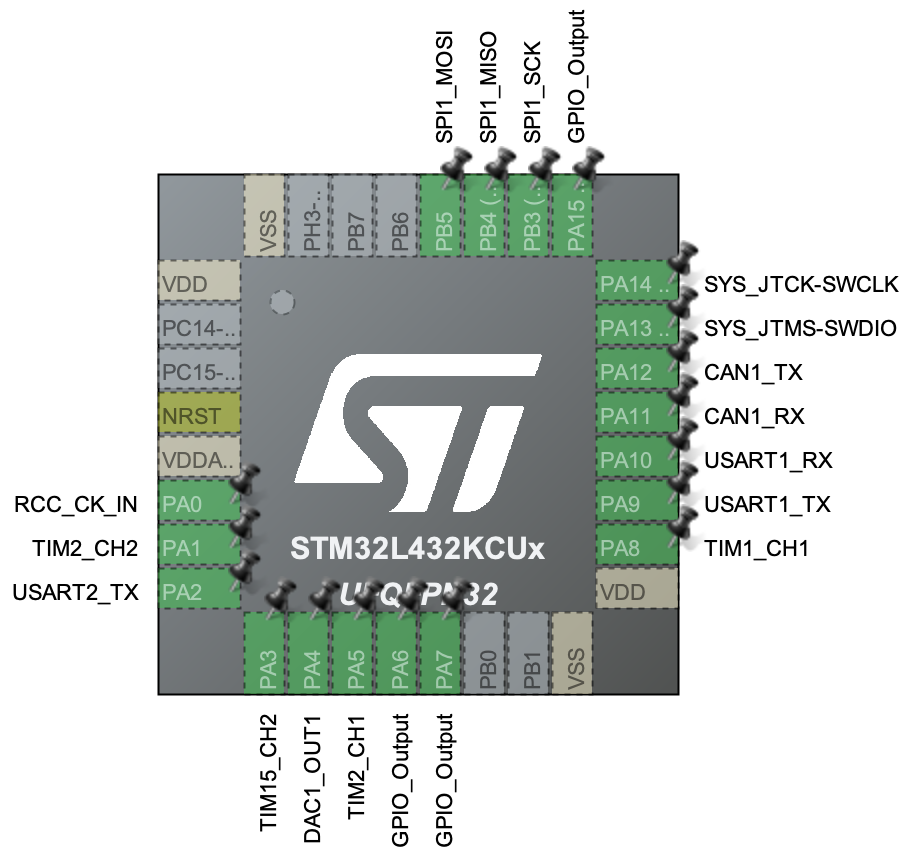
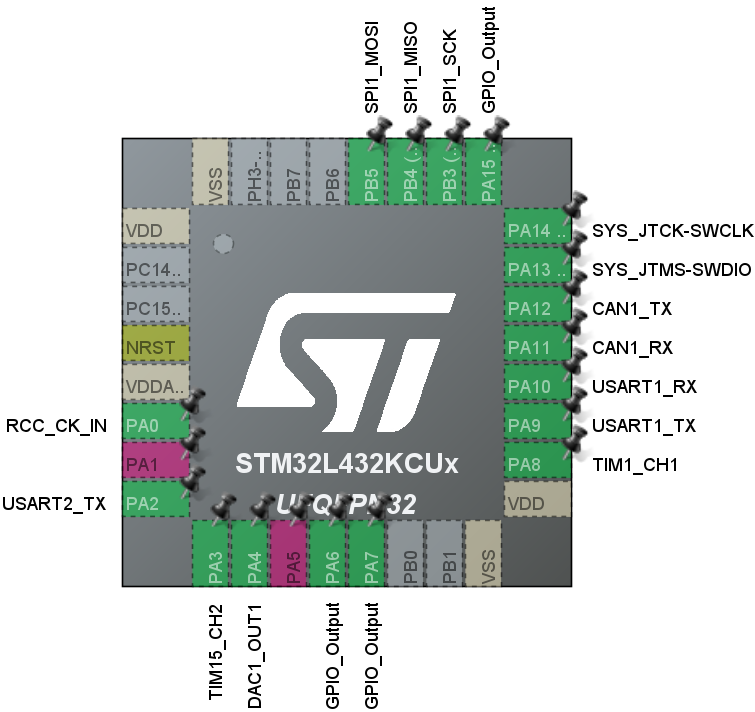
Remove direct relative AB encoder timer feature

Changed region(s): [[0.0, 0.0, 1.0, 1.0], [0.5788, 0.4017, 0.6093, 0.4635]]

diff --git a/Core/Src/main.c b/Core/Src/main.c
@@ -55,7 +55,6 @@ RTC_HandleTypeDef hrtc;
 SPI_HandleTypeDef hspi1;
 
 TIM_HandleTypeDef htim1;
-TIM_HandleTypeDef htim2;
 TIM_HandleTypeDef htim15;
 TIM_HandleTypeDef htim16;
 DMA_HandleTypeDef hdma_tim1_ch1;
@@ -75,7 +74,6 @@ static void MX_GPIO_Init(void);
 static void MX_DMA_Init(void);
 static void MX_CAN1_Init(void);
 static void MX_USART1_UART_Init(void);
-static void MX_TIM2_Init(void);
 static void MX_SPI1_Init(void);
 static void MX_TIM15_Init(void);
 static void MX_USART2_UART_Init(void);
@@ -125,7 +123,6 @@ int main(void)
   MX_DMA_Init();
   MX_CAN1_Init();
   MX_USART1_UART_Init();
-  MX_TIM2_Init();
   MX_SPI1_Init();
   MX_TIM15_Init();
   MX_USART2_UART_Init();
@@ -518,55 +515,6 @@ static void MX_TIM1_Init(void)
 
   /* USER CODE END TIM1_Init 2 */
   HAL_TIM_MspPostInit(&htim1);
-
-}
-
-/**
-  * @brief TIM2 Initialization Function
-  * @param None
-  * @retval None
-  */
-static void MX_TIM2_Init(void)
-{
-
-  /* USER CODE BEGIN TIM2_Init 0 */
-
-  /* USER CODE END TIM2_Init 0 */
-
-  TIM_Encoder_InitTypeDef sConfig = {0};
-  TIM_MasterConfigTypeDef sMasterConfig = {0};
-
-  /* USER CODE BEGIN TIM2_Init 1 */
-
-  /* USER CODE END TIM2_Init 1 */
-  htim2.Instance = TIM2;
-  htim2.Init.Prescaler = 0;
-  htim2.Init.CounterMode = TIM_COUNTERMODE_UP;
-  htim2.Init.Period = 4294967295;
-  htim2.Init.ClockDivision = TIM_CLOCKDIVISION_DIV1;
-  htim2.Init.AutoReloadPreload = TIM_AUTORELOAD_PRELOAD_DISABLE;
-  sConfig.EncoderMode = TIM_ENCODERMODE_TI12;
-  sConfig.IC1Polarity = TIM_ICPOLARITY_RISING;
-  sConfig.IC1Selection = TIM_ICSELECTION_DIRECTTI;
-  sConfig.IC1Prescaler = TIM_ICPSC_DIV1;
-  sConfig.IC1Filter = 4;
-  sConfig.IC2Polarity = TIM_ICPOLARITY_RISING;
-  sConfig.IC2Selection = TIM_ICSELECTION_DIRECTTI;
-  sConfig.IC2Prescaler = TIM_ICPSC_DIV1;
-  sConfig.IC2Filter = 4;
-  if (HAL_TIM_Encoder_Init(&htim2, &sConfig) != HAL_OK)
-  {
-    Error_Handler();
-  }
-  sMasterConfig.MasterOutputTrigger = TIM_TRGO_RESET;
-  sMasterConfig.MasterSlaveMode = TIM_MASTERSLAVEMODE_DISABLE;
-  if (HAL_TIMEx_MasterConfigSynchronization(&htim2, &sMasterConfig) != HAL_OK)
-  {
-    Error_Handler();
-  }
-  /* USER CODE BEGIN TIM2_Init 2 */
-
-  /* USER CODE END TIM2_Init 2 */
 
 }
 

diff --git a/Core/Src/stm32l4xx_hal_msp.c b/Core/Src/stm32l4xx_hal_msp.c
@@ -479,43 +479,6 @@ void HAL_TIM_PWM_MspInit(TIM_HandleTypeDef* htim_pwm)
 }
 
 /**
-  * @brief TIM_Encoder MSP Initialization
-  * This function configures the hardware resources used in this example
-  * @param htim_encoder: TIM_Encoder handle pointer
-  * @retval None
-  */
-void HAL_TIM_Encoder_MspInit(TIM_HandleTypeDef* htim_encoder)
-{
-  GPIO_InitTypeDef GPIO_InitStruct = {0};
-  if(htim_encoder->Instance==TIM2)
-  {
-    /* USER CODE BEGIN TIM2_MspInit 0 */
-
-    /* USER CODE END TIM2_MspInit 0 */
-    /* Peripheral clock enable */
-    __HAL_RCC_TIM2_CLK_ENABLE();
-
-    __HAL_RCC_GPIOA_CLK_ENABLE();
-    /**TIM2 GPIO Configuration
-    PA1     ------> TIM2_CH2
-    PA5     ------> TIM2_CH1
-    */
-    GPIO_InitStruct.Pin = GPIO_PIN_1|GPIO_PIN_5;
-    GPIO_InitStruct.Mode = GPIO_MODE_AF_PP;
-    GPIO_InitStruct.Pull = GPIO_NOPULL;
-    GPIO_InitStruct.Speed = GPIO_SPEED_FREQ_LOW;
-    GPIO_InitStruct.Alternate = GPIO_AF1_TIM2;
-    HAL_GPIO_Init(GPIOA, &GPIO_InitStruct);
-
-    /* USER CODE BEGIN TIM2_MspInit 1 */
-
-    /* USER CODE END TIM2_MspInit 1 */
-
-  }
-
-}
-
-/**
   * @brief TIM_OC MSP Initialization
   * This function configures the hardware resources used in this example
   * @param htim_oc: TIM_OC handle pointer
@@ -652,35 +615,6 @@ void HAL_TIM_PWM_MspDeInit(TIM_HandleTypeDef* htim_pwm)
     /* USER CODE BEGIN TIM1_MspDeInit 1 */
 
     /* USER CODE END TIM1_MspDeInit 1 */
-  }
-
-}
-
-/**
-  * @brief TIM_Encoder MSP De-Initialization
-  * This function freeze the hardware resources used in this example
-  * @param htim_encoder: TIM_Encoder handle pointer
-  * @retval None
-  */
-void HAL_TIM_Encoder_MspDeInit(TIM_HandleTypeDef* htim_encoder)
-{
-  if(htim_encoder->Instance==TIM2)
-  {
-    /* USER CODE BEGIN TIM2_MspDeInit 0 */
-
-    /* USER CODE END TIM2_MspDeInit 0 */
-    /* Peripheral clock disable */
-    __HAL_RCC_TIM2_CLK_DISABLE();
-
-    /**TIM2 GPIO Configuration
-    PA1     ------> TIM2_CH2
-    PA5     ------> TIM2_CH1
-    */
-    HAL_GPIO_DeInit(GPIOA, GPIO_PIN_1|GPIO_PIN_5);
-
-    /* USER CODE BEGIN TIM2_MspDeInit 1 */
-
-    /* USER CODE END TIM2_MspDeInit 1 */
   }
 
 }

diff --git a/Core/Src/init.c b/Core/Src/init.c
@@ -7,7 +7,6 @@
 /** Includes. *****************************************************************/
 
 #include "init.h"
-#include "ab_encoder_hal_tim.h"
 #include "as5047p_hal_spi.h"
 #include "can.h"
 #include "comm.h"
@@ -27,9 +26,6 @@
   (CAN_TX_STATE_TARGET_PERIOD_MS / CAN_TX_STATE_TASK_PERIOD_MS) // Trigger.
 
 /** Private variables. ********************************************************/
-
-// Sensor variables.
-static ab_encoder_t ab_encoder = {0};
 
 // Encoder position tracking (multi-turn unwrapped).
 static float s_prev_raw_rad = 0.0f;
@@ -180,12 +176,10 @@ static void led_status_run(void) {
 }
 
 static void sensors_run(void) {
-#if MC_STEPPER_USE_ABSOLUTE_ENCODER
   // Absolute angle sensor.
   as5047p_get_angle();
 #ifdef MC_STEPPER_FULL_CAN_TELEMETRY
   can_tx_absolute_encoder();
-#endif
 #endif
 }
 
@@ -276,13 +270,8 @@ void mc_stepper_init(void) {
   ws2812b_update();
 
   // Sensors.
-#if MC_STEPPER_USE_ABSOLUTE_ENCODER
   as5047p_init(0x01, 0x00);
   HAL_Delay(1);
-#endif
-#if MC_STEPPER_USE_RELATIVE_ENCODER
-  ab_encoder_init(&ab_encoder, &htim2);
-#endif
 
   // Closed-loop controls. (Must be init before tmc2209_init()).
   controls_init();

diff --git a/Core/Inc/configuration.h b/Core/Inc/configuration.h
@@ -32,9 +32,6 @@
 // Full telemetry flood on CAN bus intended for debug/development purposes.
 #define MC_STEPPER_FULL_CAN_TELEMETRY
 
-#define MC_STEPPER_USE_ABSOLUTE_ENCODER 1 // Magnetic absolute encoder.
-#define MC_STEPPER_USE_RELATIVE_ENCODER 0 // AB quadrature encoder.
-
 // TMC2209 default configuration.
 #define MC_STEPPER_STEP_SIZE (16u)
 #define MC_STEPPER_RUN_CURRENT_MA (300u)

diff --git a/README.md b/README.md
@@ -26,9 +26,6 @@ STM32L432KC microcontroller firmware for `mc_stepper_pcb`.
       * [2.3.1 Timer Calculations](#231-timer-calculations)
       * [2.3.2 Nested Vectored Interrupt Controller (NVIC)](#232-nested-vectored-interrupt-controller-nvic)
   * [3 AS5147P Magnetic Rotary Encoder](#3-as5147p-magnetic-rotary-encoder)
-    * [3.1 Background](#31-background)
-  * [4 AB (Quadrature) Encoder](#4-ab-quadrature-encoder)
-    * [4.1 Background](#41-background)
   * [Third-Party Licenses](#third-party-licenses)
 <!-- TOC -->
 
@@ -82,8 +79,8 @@ STM32L432KC microcontroller firmware for `mc_stepper_pcb`.
 | PB3         | `SPI1_SCK`              |                            | AS5147P Pin 2: `CLK`             |                                       |
 | PB4         | `SPI1_MISO`             |                            | AS5147P Pin 3: `MISO`            |                                       |
 | PB5         | `SPI1_MOSI`             |                            | AS5147P Pin 4: `MOSI`            |                                       |
-| PA1         | `TIM2_CH1`              | TIM2 encoder mode          | GPIO Breakout: (ie Encoder: `A`) | Reserved GPIO breakout (PA1).         |
-| PA5         | `TIM2_CH2`              | TIM2 encoder mode          | GPIO Breakout: (ie Encoder: `B`) | Reserved GPIO breakout (PA5).         |
+| PA1         | `Reserved`              |                            | GPIO Breakout: (ie Encoder: `A`) | Reserved GPIO breakout (PA1).         |
+| PA5         | `Reserved`              |                            | GPIO Breakout: (ie Encoder: `B`) | Reserved GPIO breakout (PA5).         |
 | PA4         | `DAC1_OUT1`             |                            | TMC2209 Pin 17: `VREF` circuit   |                                       |
 | PA7         | `GPIO_Output`           | Hardware pull-up, set high | TMC2209 Pin 2: `ENN`             |                                       |
 | PA2         | `USART2_TX`             | Single Wire (Half-Duplex)  | TMC2209 Pin 14: `PDN_UART`       |                                       |
@@ -156,25 +153,6 @@ Thus, the prescaler, $PSC = 80 - 1$.
 > later development uses the AS5147P. Firmware is cross compatible for both the
 > AS5047P/AS5147P, however source files maintain the use of the "AS5047P"
 > naming.
-
-### 3.1 Background
-
----
-
-## 4 AB (Quadrature) Encoder
-
-PA5 and PA1 are designated as GPIO breakouts, with default configration for a AB
-quadrature encoder.
-
-### 4.1 Background
-
-The AB quadrature encoder is implemented via `TIM2` (16-bit) on the STM32L432KC.
-
-Default configuration:
-
-- 3.3 V logic signal.
-- AB signals: Rising edge.
-- AB low-pass input filter value: 4.
 
 ---
 
